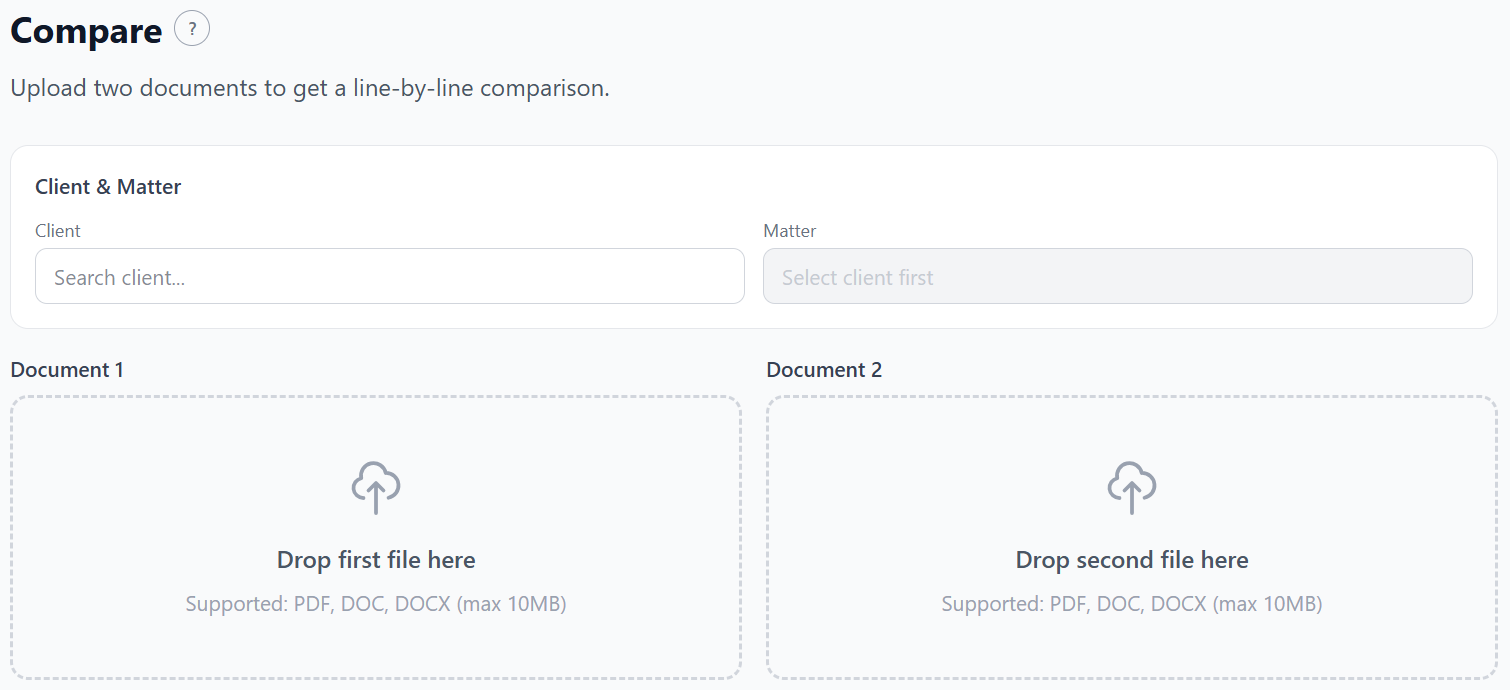
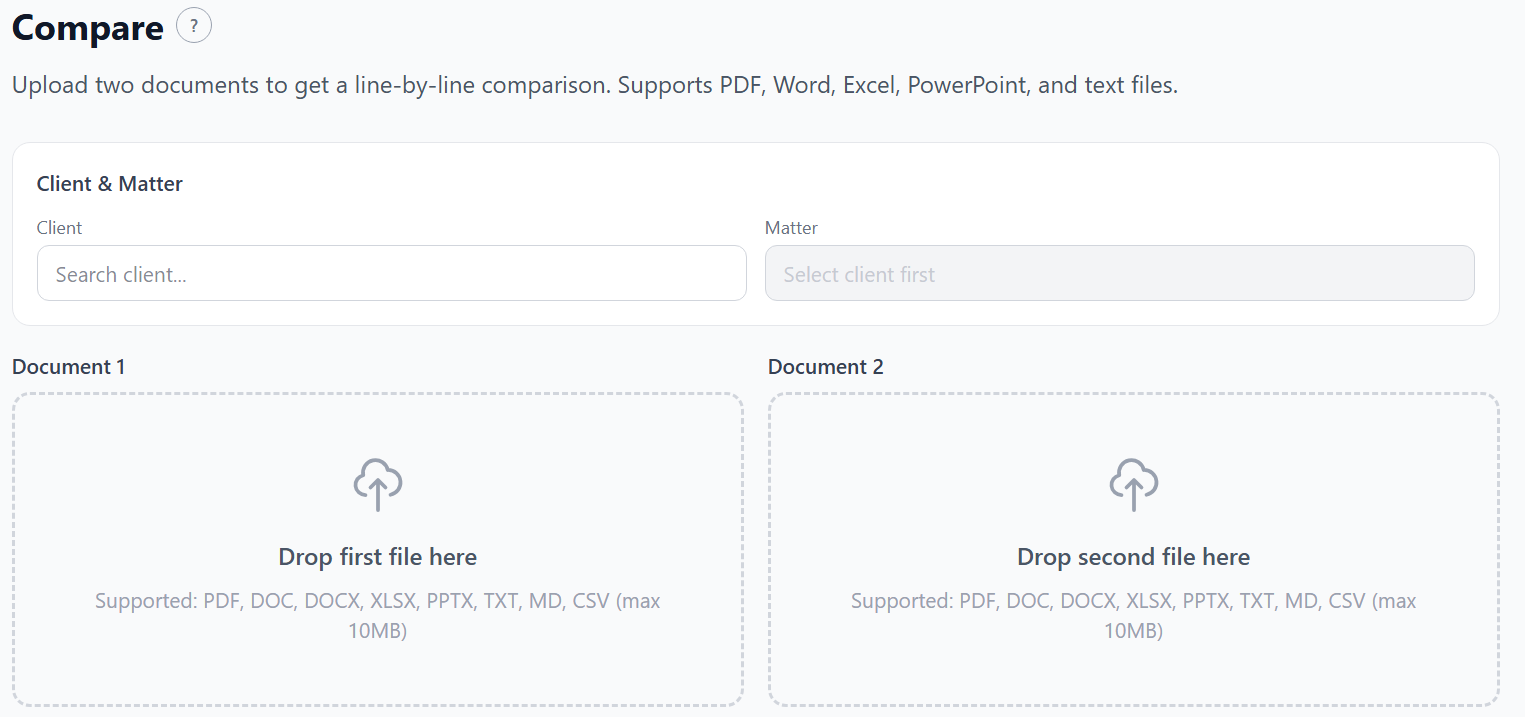
Help: update Compare section and screenshot for Excel/CSV grid diff
- Expand Compare description to cover both document (AI analysis) and spreadsheet (grid view) modes
- Add File Types cards showing supported formats per mode
- Add Excel/CSV Grid View sub-section documenting toggle, sheet tabs, cell display, and export
- Update tips to include row-position caveat and XLSX vs CSV cross-compare note
- Replace Compare screenshot with updated version showing new file type support

diff --git a/src/app/help/page.tsx b/src/app/help/page.tsx
@@ -260,7 +260,7 @@ export default function HelpPage() {
         {/* ── Compare ────────────────────────────────────────────── */}
         {canSee("compare") && <Section id="compare" title="Compare" color="bg-purple-500">
           <p className="text-sm text-gray-600 mb-4">
-            Upload two documents and receive a detailed AI-generated comparison highlighting similarities, differences, and key changes between them.
+            Upload two documents and receive a detailed comparison. For Word and PDF files you get an AI-generated analysis with a line-by-line diff. For Excel and CSV files you get a cell-by-cell grid view with color-coded changes you can export back to Excel.
           </p>
 
           <Image src={compareImg} alt="Compare screenshot" className="my-4 rounded-xl border border-gray-200 shadow-sm w-full h-auto" placeholder="blur" />
@@ -270,15 +270,50 @@ export default function HelpPage() {
             <Step number={1} text="Select a client and matter." />
             <Step number={2} text="Upload Document 1 and Document 2." />
             <Step number={3} text="Click Compare and wait for the analysis to complete." />
-            <Step number={4} text="Review the report - changes are grouped by type (additions, removals, modifications)." />
-            <Step number={5} text="Download the comparison as a PDF." />
+            <Step number={4} text="Review the results — Word/PDF shows an AI report with a line-by-line diff; Excel/CSV shows a color-coded grid." />
+            <Step number={5} text="Download the results — Word/PDF comparisons export as PDF; Excel/CSV comparisons export as a styled Excel file." />
+          </div>
+
+          <div className="mb-6">
+            <p className="text-xs font-semibold text-gray-500 uppercase tracking-wide mb-3">File Types</p>
+            <div className="grid sm:grid-cols-2 gap-3">
+              <div className="bg-purple-50 border border-purple-100 rounded-xl p-4">
+                <p className="text-sm font-semibold text-purple-800 mb-1">Documents — AI Analysis</p>
+                <p className="text-xs text-purple-700 leading-relaxed mb-2">Receives a structured AI report covering similarities, differences, additions, and removals. Also includes a line-by-line diff view.</p>
+                <p className="text-xs text-purple-600 font-medium">PDF, DOC, DOCX, PPTX, TXT, MD</p>
+              </div>
+              <div className="bg-purple-50 border border-purple-100 rounded-xl p-4">
+                <p className="text-sm font-semibold text-purple-800 mb-1">Spreadsheets — Grid View</p>
+                <p className="text-xs text-purple-700 leading-relaxed mb-2">Shows a cell-by-cell grid with color-coded rows. Green = added, red = removed, yellow = changed (showing old and new values). Export to Excel preserves all highlighting.</p>
+                <p className="text-xs text-purple-600 font-medium">XLSX, CSV</p>
+              </div>
+            </div>
+          </div>
+
+          <div className="mb-6">
+            <p className="text-xs font-semibold text-gray-500 uppercase tracking-wide mb-3">Excel / CSV Grid View</p>
+            <div className="space-y-1.5 pl-1">
+              {[
+                "Toggle Show only changes to hide unchanged rows and focus on what differs.",
+                "If the file has multiple sheets, tabs appear at the top — dots indicate which sheets have changes.",
+                "Changed cells show the old value (strikethrough) above the new value.",
+                "The stats bar at the top of the grid shows a count of changed, added, and removed rows.",
+                "Click Export to Excel to download a styled workbook — includes a Summary sheet with per-sheet counts.",
+              ].map((item, i) => (
+                <div key={i} className="flex items-start gap-2 text-sm text-gray-600">
+                  <span className="text-gray-400 mt-0.5">•</span>
+                  {item}
+                </div>
+              ))}
+            </div>
           </div>
 
           <ul className="space-y-2">
             <p className="text-xs font-semibold text-gray-500 uppercase tracking-wide mb-3">Tips</p>
-            <Tip text="Best used for comparing versions of the same document - contracts, briefs, agreements." />
-            <Tip text="Supports PDF, DOC, and DOCX formats." />
-            <Tip text="The order of documents matters - Document 1 is treated as the original, Document 2 as the revised version." />
+            <Tip text="The order of documents matters — Document 1 is the original, Document 2 is the revised version." />
+            <Tip text="For Excel/CSV, the grid compares rows by position. If rows are inserted in the middle, everything below will appear as changed." />
+            <Tip text="You can compare an XLSX against a CSV — both are parsed to the same grid format." />
+            <Tip text="Best used for comparing versions of the same document — contracts, briefs, data exports." />
           </ul>
         </Section>}
 
